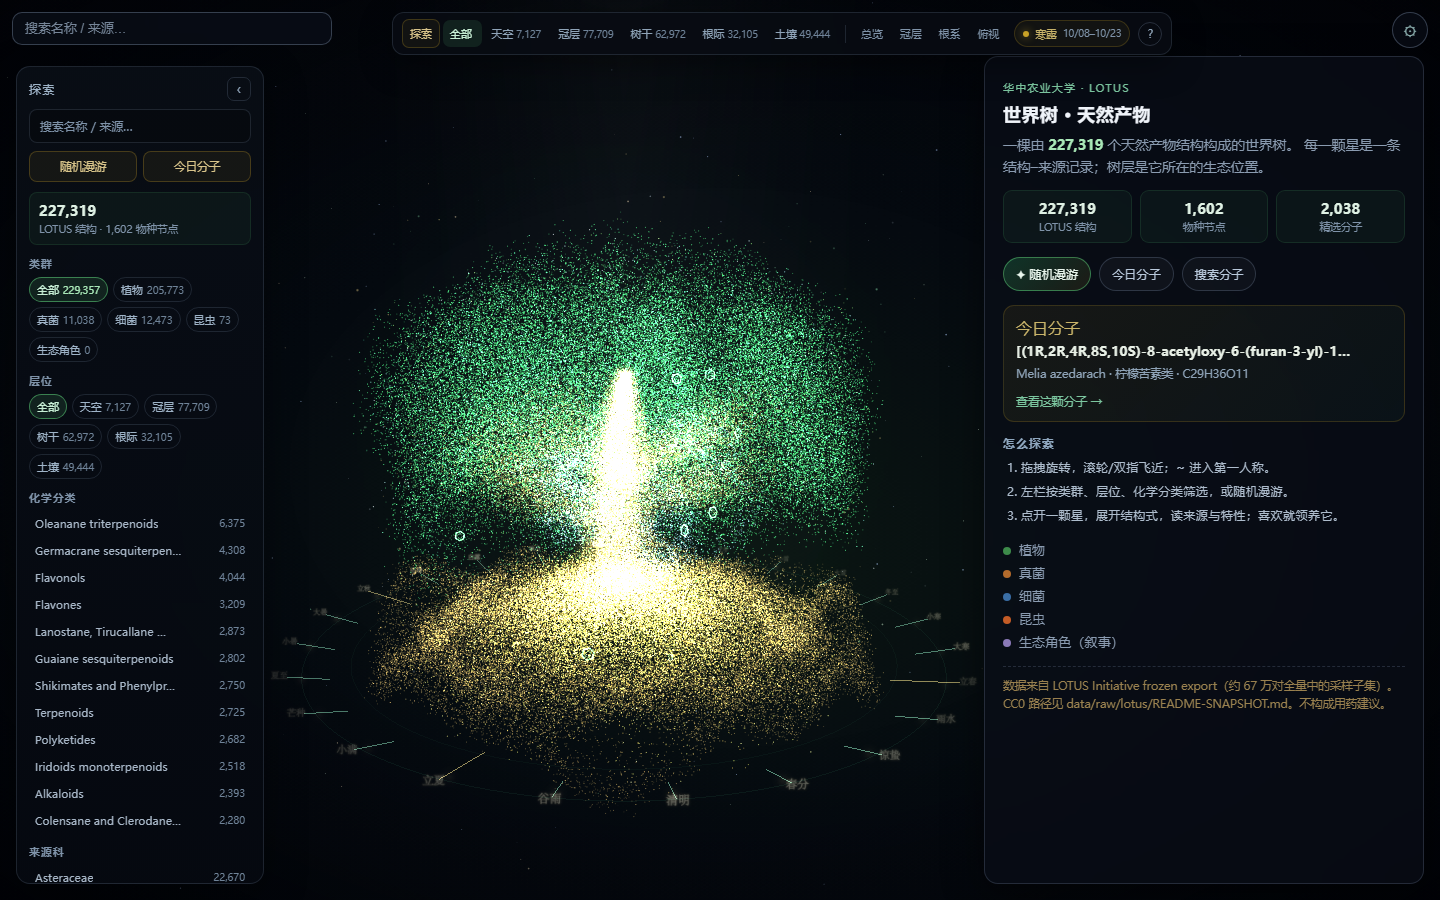
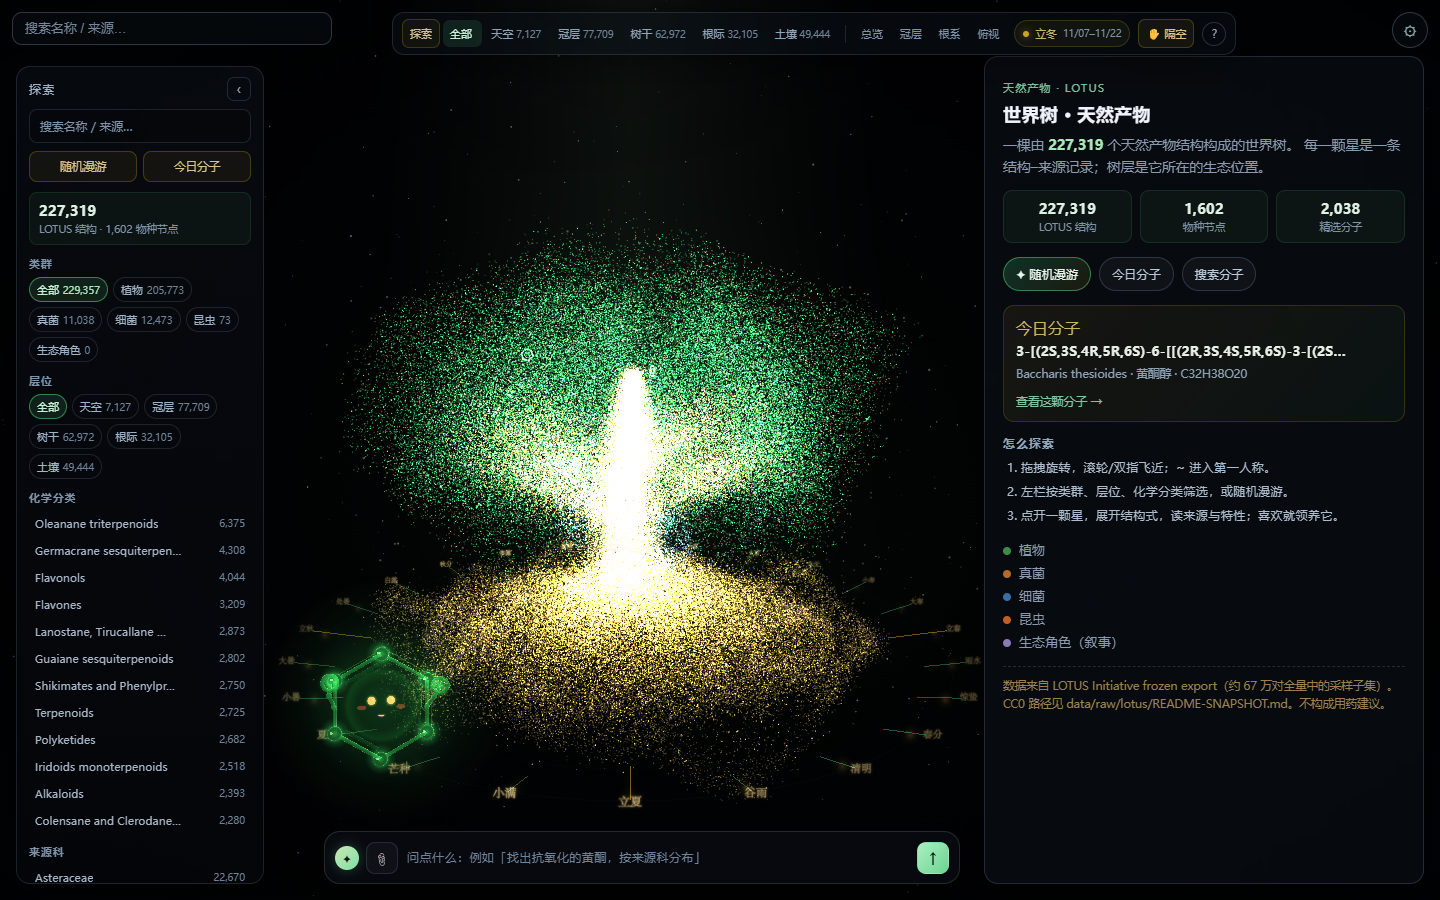
chore: 更新欢迎语与首页预览图

diff --git a/src/ui/DetailPanel.js b/src/ui/DetailPanel.js
@@ -70,7 +70,7 @@ function welcomeHtml() {
   const today = todayPoint();
   return `
     <div class="detail-empty welcome">
-      <span class="welcome-kicker">华中农业大学 · LOTUS</span>
+      <span class="welcome-kicker">天然产物 · LOTUS</span>
       <h2>世界树 · 天然产物</h2>
       <p class="welcome-lead">
         一棵由 <strong>${nStruct.toLocaleString("zh-CN")}</strong> 个天然产物结构构成的世界树。

diff --git a/docs/DEPLOYMENT_HANDOVER.md b/docs/DEPLOYMENT_HANDOVER.md
@@ -188,7 +188,7 @@ cat /tmp/eco-preflight.txt
 7. **磁盘/内存**：当前完整项目解压约 **312MB**，完整 zip 约 **250MB**（含 Node）或 **114MB**（不含 Node），Node 运行时约 **140MB**；建议至少 **1GB 磁盘、1GB 内存**。
 8. **备份**：`claims.jsonl` 是否在备份范围内；如果没有，需要自行加定时备份。
 9. **安全策略**：Nginx/WAF 是否会加严格 CSP（可能拦截内联 import map）、是否允许 `.wasm` 和 `application/gzip`；是否会拦截 `/api`。
-10. **内容与隐私**：领养功能会公开显示用户填写的名字（最长 20 字），是否需要审核/限流/关闭；校名使用是否已获允许。
+10. **内容与隐私**：领养功能会公开显示用户填写的名字（最长 20 字），是否需要审核/限流/关闭。
 11. **备案/访问范围**：公网访问是否需要 ICP 备案或校内审批；是否只允许校园网访问。
 
 ### 推荐部署形态
@@ -255,7 +255,7 @@ server {
 MIME：需要 application/wasm 和 application/gzip
 备份：需要保留 claims.jsonl（领养记录，JSONL 小文件）
 安全：静态服务器已屏蔽 .git/deploy/logs/claims 等敏感路径；领养接口可加限流
-内容：LOTUS 数据 CC0；校名使用已按学校要求申请；页面有“非用药建议”声明
+内容：LOTUS 数据 CC0；页面有“非用药建议”声明
 ```
 
 ---

diff --git a/README-FIRST.md b/README-FIRST.md
@@ -281,7 +281,6 @@ cat /tmp/eco-preflight.txt
 | 复制链接失败 | 使用 HTTPS；HTTP 下新版已有降级复制 |
 | 域名子路径 | 需要改 import map / 资源路径；优先申请根路径子域名 |
 | 上传限制 100MB | 用 SFTP/rsync 上传；或联系技术支持拆分上传 |
-| 校名使用 | 确认已获学校宣传/信息化部门允许 |
 
 ---
 
